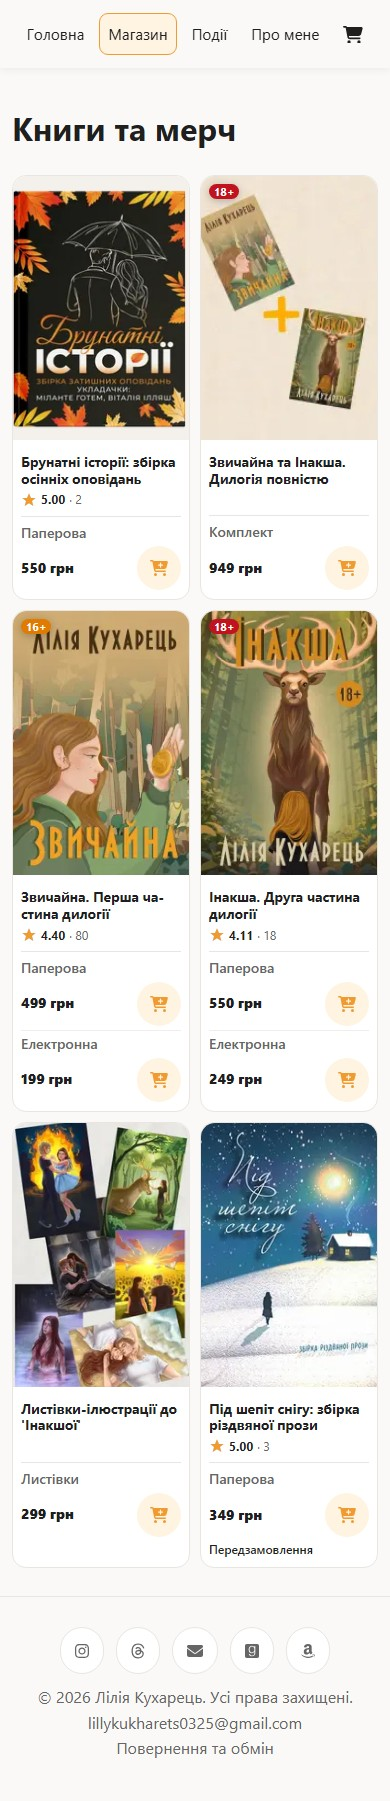
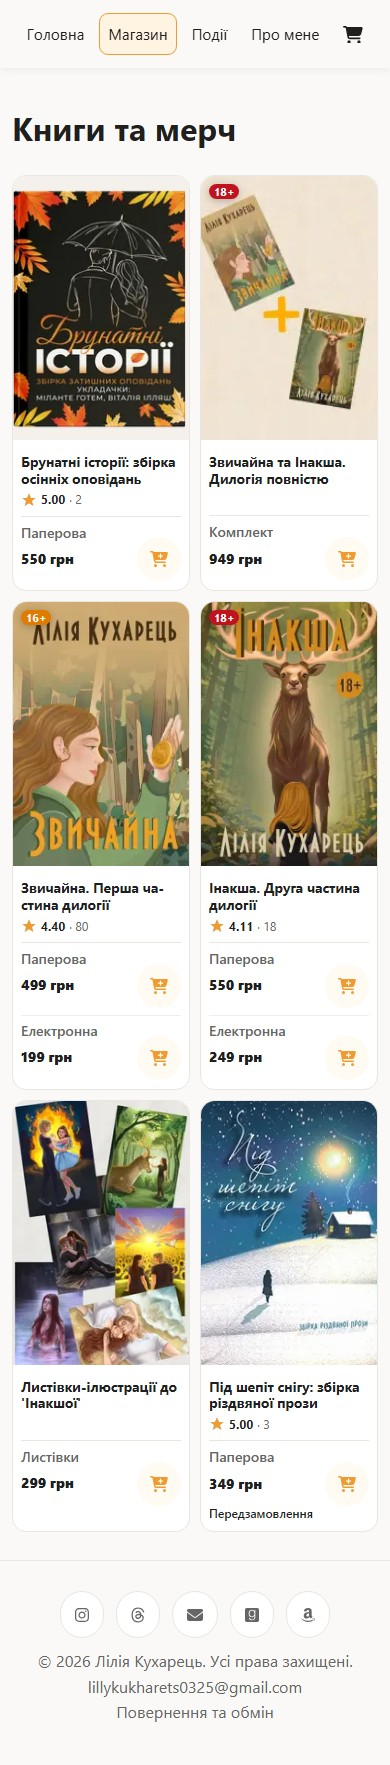
style: tighten mobile catalog purchase spacing (ZVY-73) [skip netlify]

diff --git a/tests/e2e/catalog-mobile-sizing.spec.ts b/tests/e2e/catalog-mobile-sizing.spec.ts
@@ -66,6 +66,7 @@ for (const width of [320, 360, 390, 520, 521, 640, 768, 1440]) {
       for (const book of await checkedCards.all()) {
         const rows = book.locator('[class*="formatRow"]');
         let previousButtonBottom = 0;
+        let previousPriceBottom: number | null = null;
         for (const row of await rows.all()) {
           const label = row.locator('[class*="formatName"]');
           const price = row.locator('[class*="formatPrice"]');
@@ -77,11 +78,28 @@ for (const width of [320, 360, 390, 520, 521, 640, 768, 1440]) {
           if (width <= 520) {
             await contained(label, row);
             await contained(price, row);
-            const labelBox = (await label.boundingBox())!;
-            const priceBox = (await price.boundingBox())!;
-            expect(labelBox.y + labelBox.height).toBeLessThanOrEqual(priceBox.y);
-            expect(labelBox.y + labelBox.height).toBeLessThanOrEqual(buttonBox.y);
+            const textBounds = (element: Element) => {
+              const range = document.createRange();
+              range.selectNodeContents(element);
+              const { x, y, width, height } = range.getBoundingClientRect();
+              return { x, y, width, height };
+            };
+            const labelBox = await label.evaluate(textBounds);
+            const priceBox = await price.evaluate(textBounds);
+            expect(priceBox.y - (labelBox.y + labelBox.height),
+              `Label ${await label.textContent()} and price ${await price.textContent()} must not overlap: ${JSON.stringify({ labelBox, priceBox, buttonBox })}`)
+              .toBeGreaterThanOrEqual(0);
+            expect(labelBox.x + labelBox.width).toBeLessThanOrEqual(buttonBox.x);
             expect(priceBox.x + priceBox.width).toBeLessThanOrEqual(buttonBox.x);
+            expect(Math.abs(priceBox.y + priceBox.height / 2 - (buttonBox.y + buttonBox.height / 2))).toBeLessThanOrEqual(1);
+            const withinOptionGap = priceBox.y - (labelBox.y + labelBox.height);
+            expect(withinOptionGap).toBeLessThanOrEqual(10);
+            expect(await price.evaluate(element => parseFloat(getComputedStyle(element).fontWeight)))
+              .toBeGreaterThan(await label.evaluate(element => parseFloat(getComputedStyle(element).fontWeight)));
+            if (previousPriceBottom !== null) {
+              expect(labelBox.y - previousPriceBottom).toBeGreaterThan(withinOptionGap);
+            }
+            previousPriceBottom = priceBox.y + priceBox.height;
             for (const text of [label, price]) {
               expect(await text.evaluate(element => parseFloat(getComputedStyle(element).fontSize))).toBeGreaterThanOrEqual(14);
             }
@@ -195,6 +213,13 @@ for (const width of [360, 390, 1440]) {
           expect(metrics.map(({ title, x, width, titleSize, titleLineHeight, titleClamp }) => ({ title, x, width, titleSize, titleLineHeight, titleClamp })))
             .toEqual(before.cards.map(({ title, x, width, titleSize, titleLineHeight, titleClamp }: typeof metrics[number]) => ({ title, x, width, titleSize, titleLineHeight, titleClamp })));
           expect(metrics[2].y).toBeGreaterThan(before.cards[2].y);
+          const initial = JSON.parse(await readFile(path.join(directory, "..", "initial-after", `${stem}.json`), "utf8"));
+          expect(metrics.map(({ title, x, width, titleSize, titleLineHeight, titleClamp }) => ({ title, x, width, titleSize, titleLineHeight, titleClamp })))
+            .toEqual(initial.cards.map(({ title, x, width, titleSize, titleLineHeight, titleClamp }: typeof metrics[number]) => ({ title, x, width, titleSize, titleLineHeight, titleClamp })));
+          for (let index = 0; index < metrics.length; index++) {
+            expect(metrics[index].formatsHeight).toBeLessThan(initial.cards[index].formatsHeight);
+          }
+          expect(await page.evaluate(() => document.documentElement.scrollHeight)).toBeLessThan(initial.pageHeight);
         }
       }
     });

diff --git a/src/components/molecules/BookCard.module.css b/src/components/molecules/BookCard.module.css
@@ -189,12 +189,12 @@
   }
   .formatRow {
     grid-template-columns: minmax(0, 1fr) 44px;
-    gap: 5px;
+    gap: 0 5px;
     padding: 1px 0;
   }
   .formatRow + .formatRow {
-    margin-top: 3px;
-    padding-top: 5px;
+    margin-top: 6px;
+    padding-top: 7px;
   }
   .formatInfo,
   .formatText {
@@ -210,11 +210,14 @@
     overflow-wrap: anywhere;
   }
   .formatName {
-    grid-column: 1 / -1;
+    grid-column: 1;
+    /* Use spare space beside the button without moving its price alignment. */
+    margin-bottom: -4px;
   }
   .formatPrice {
     grid-column: 1;
     grid-row: 2;
+    padding: 8px 0;
   }
   .formatInfo > :not(.formatText) {
     grid-column: 1 / -1;
@@ -225,5 +228,6 @@
     width: 44px;
     height: 44px;
     font-size: 1rem;
+    background: color-mix(in srgb, var(--accent-weak) 45%, var(--surface));
   }
 }

diff --git a/docs/storefront-catalog-sizing/REPORT.md b/docs/storefront-catalog-sizing/REPORT.md
@@ -4,17 +4,19 @@ Verified on 2026-10-07 (Europe/Kyiv). [ZVY-73](https://linear.app/zvychajna/issu
 
 ## Implemented result
 
-Within the existing `max-width: 520px` breakpoint, format labels now occupy the full row above price and quick-add. Format and price text is 14 CSS px (previously 11.2px); buttons are 44 × 44 CSS px (previously 26 × 26). Long format labels and amounts can wrap instead of clipping. Preorder disclosure remains below the price/action row.
+Within the existing `max-width: 520px` breakpoint, format labels remain above their bold prices, with each price centered beside a circular quick-add button. Format and price text is 14 CSS px (previously 11.2px); buttons retain their 44 × 44 CSS px tap target (previously 26 × 26). Long format labels and amounts can wrap instead of clipping. Preorder disclosure remains below the price/action row.
 
-The two-column phone grid, cover and title arrangement, two-line title clamp, colors, focus treatment, and edition-selection behavior are preserved. All application changes are in `src/components/molecules/BookCard.module.css`. The existing non-semantic format wrappers use `display: contents` on mobile so their children participate in the row grid. No component markup, cart rules, API contracts or backend code changed.
+After reviewing the initial After design, the owner requested tighter spacing between each format and price, slightly more separation between editions, less unused height for single-option cards, prominent bold prices, and a less dominant button background. This explicit refinement preserves the stacked format/price arrangement rather than restoring the original inline row. The label occupies the price column and uses spare space beside the button; price padding protects wrapped text. Option-to-option margin/padding increases from 3/5px to 6/7px. The pale button background mixes 45% of the original accent surface with the white card surface; its circle and tap target remain 44px.
 
-Created files: `tests/e2e/catalog-mobile-sizing.spec.ts`, this report, six full-page before/after JPEGs, six matching measurement JSON files, and two labeled comparison JPEGs in this directory. The comparisons place the original screenshots side by side without rescaling.
+The two-column phone grid, covers, title arrangement, two-line title clamp, ratings, separator appearance, price/label colors, focus treatment, and edition-selection behavior are preserved. All application changes are in `src/components/molecules/BookCard.module.css`. The existing non-semantic format wrappers use `display: contents` on mobile so their children participate in the row grid. No component markup, cart rules, API contracts or backend code changed.
+
+Created files: `tests/e2e/catalog-mobile-sizing.spec.ts`, this report, full-page screenshots and measurement JSONs under `before`, `initial-after` and `after`, original-to-refined comparisons `comparison-360.jpg`/`comparison-390.jpg`, initial-After-to-refined comparisons `refinement-360.jpg`/`refinement-390.jpg`, and the cropped purchase-area comparison `refinement-details-390.jpg`. Initial comparisons are retained under `initial-after`. Comparisons use actual screenshots without rescaling.
 
 ## Environment and evidence provenance
 
 Branch `codex/zvy-73-mobile-catalog-sizing`, based on updated frontend `main` at `34a608fa2dc8db4761ce13290bd09016621844fe`. Next.js 16.3.4 production build, Node.js 24.11.1, Playwright 1.63.0 and bundled Chromium. Local application: `http://127.0.0.1:3100`; deterministic API double: `http://127.0.0.1:4100`. Phone contexts emulate touch. Tested route: `/books`.
 
-Matching captures use all six products from the approved historical [catalog snapshot](../storefront-baseline/catalog-snapshot.json), supplied through a browser route double after the normal provider refresh. Image URLs are normalized to repository assets. The local build uses the standard deterministic test API; browser requests to non-local hosts are blocked. Both phases use the same snapshot, viewport, fonts and image readiness checks, empty cart and scroll position. The before captures ran with the original base stylesheet, before applying the mobile change. This is controlled local evidence, not a fresh production inspection.
+Matching captures use all six products from the approved historical [catalog snapshot](../storefront-baseline/catalog-snapshot.json), supplied through a browser route double after the normal provider refresh. Image URLs are normalized to repository assets. The local build uses the standard deterministic test API; browser requests to non-local hosts are blocked. All three phases use the same snapshot, viewport, fonts and image readiness checks, empty cart and scroll position. Before captures use the original base stylesheet. The initial After at `9a71d97879acaa7cddd6ac6e963f6bda4ec0d510` is preserved under `initial-after`; current `after` captures use the owner-requested refinement. This is controlled local evidence, not a fresh production inspection.
 
 | Viewport | Before | After | Comparison |
 | --- | --- | --- | --- |
@@ -24,13 +26,15 @@ Matching captures use all six products from the approved historical [catalog sna
 
 ## Browsing tradeoff
 
-In this six-product snapshot, a one-edition format block grows from 36px to approximately 75.8px; a two-edition block grows from 72px to approximately 151.6px. The preorder block grows from approximately 43px to 96.4px. The second product row starts about 39.8px lower on both phones; the third starts about 119.4px lower. Grid widths and title size, line height and clamp match their respective before measurements.
+In this six-product snapshot, the refined one-edition format block measures approximately 66.8px, compared with 75.8px in the initial After and 36px in the original Before. A two-edition block measures approximately 138.6px, compared with 151.6px and 72px respectively. The preorder block measures approximately 82.4px, compared with 96.4px and 43px. Thus the refinement removes 9px from a one-option block, 13px from a two-option block and 14px from the preorder block. Grid widths and title size, line height and clamp match both earlier versions.
 
-| Width | Before full-page height | After full-page height | Increase |
-| --- | ---: | ---: | ---: |
-| 360px | 1561px | 1733px | 172px (11.0%) |
-| 390px | 1628px | 1801px | 173px (10.6%) |
-| 1440px | 1553px | 1553px | 0px |
+| Width | Original Before | Initial After | Refined After | Change from initial After |
+| --- | ---: | ---: | ---: | ---: |
+| 360px | 1561px | 1733px | 1697px | −36px |
+| 390px | 1628px | 1801px | 1765px | −36px |
+| 1440px | 1553px | 1553px | 1553px | 0px |
+
+Initial After versus refined: [390px full page](refinement-390.jpg), [360px full page](refinement-360.jpg), [390px purchase details](refinement-details-390.jpg). At 390px the refined page is 36px shorter than the initial After and remains 137px (8.4%) taller than the original Before. At 360px it remains 136px (8.7%) taller. The first product row is 9px shorter and the two-edition row is 13px shorter than the initial After; their covers and title/rating blocks are unchanged.
 
 Larger text and targets require more scrolling to browse the same products. The initial phone viewport exposes less of the next product row. These measurements describe this snapshot only; no conversion improvement or real-phone comfort improvement is assumed.
 
@@ -42,7 +46,7 @@ Larger text and targets require more scrolling to browse the same products. The 
 - Production build through the standard Playwright `tests/support/test-app.mjs`: passed for both capture phases.
 - Before capture: three matching snapshot captures passed.
 - `ZVY73_EVIDENCE_PHASE=after npm run test:e2e -- catalog-mobile-sizing books-grid-rating preorder-labels keyboard-navigation accessibility`: 45 passed.
-- Layout assertions cover 320, 360, 390, 520, 521, 640, 768 and 1440px. Mobile tests check two columns, full label/price containment, 14px text, 44px targets, label-above-action placement, no overlapping buttons and no page overflow. Edge data includes a long merchandise label and 12345.67 UAH amount. Desktop keeps the original long-label handling; it is outside this mobile change.
+- Layout assertions cover 320, 360, 390, 520, 521, 640, 768 and 1440px. Mobile tests check two columns, full label/price containment, 14px text, 44px targets, stacked format/price text without overlap, price prominence, centered price/button alignment, tighter within-option spacing than between-option spacing, no overlapping buttons and no page overflow. Edge data includes a long merchandise label and 12345.67 UAH amount. Desktop keeps the original long-label handling; it is outside this mobile change. A 320px wrapped-label/price overlap found during refinement was corrected and the strengthened test now passes.
 - Interaction tests at 360/390/1440px assert intended item IDs, formats and quantities for touch/click, Enter and Space. They exercise discounted paper preorder (449 UAH), available ebook (199 UAH), total 648 UAH, disabled unavailable editions, reopening an existing cart item without duplicating it, and Escape/focus restoration. Invoice request count stays zero.
 - Existing ratings, preorder, keyboard and axe checks pass with the repository's established color-contrast exception. No new accessibility rule exceptions were introduced.
 - Desktop card measurements and full-page height match before; full-page JPEG bytes are identical. Phone horizontal positions, widths and title styling match before.
@@ -55,7 +59,7 @@ To repeat after captures, set `ZVY73_EVIDENCE_PHASE=after` and run `npm run test
 
 | Acceptance criterion | Result |
 | --- | --- |
-| Two columns, current titles, format above price/button, minimum sizing | Implemented; 320/360/390/520px layout tests and matching captures pass |
+| Two columns, current titles, stacked format/price, minimum sizing, owner-requested spacing and background refinement | Implemented; 320/360/390/520px layout tests and matching captures pass; 390px catalog is 36px shorter than initial After |
 | Full format/amount/currency, intended touch/keyboard edition, non-overlapping targets | Implemented and tested with ordinary, long-label, discounted, preorder, digital, unavailable and in-cart states |
 | Existing mobile breakpoint only; desktop and intermediate/reflow checks | Implemented; 521/640/768/1440px checks pass and desktop screenshot is identical |
 | Baseline comparison, increased-scroll tradeoff, final owner review | Evidence and tradeoff recorded; implemented result presented for owner review, acceptance remains pending |
